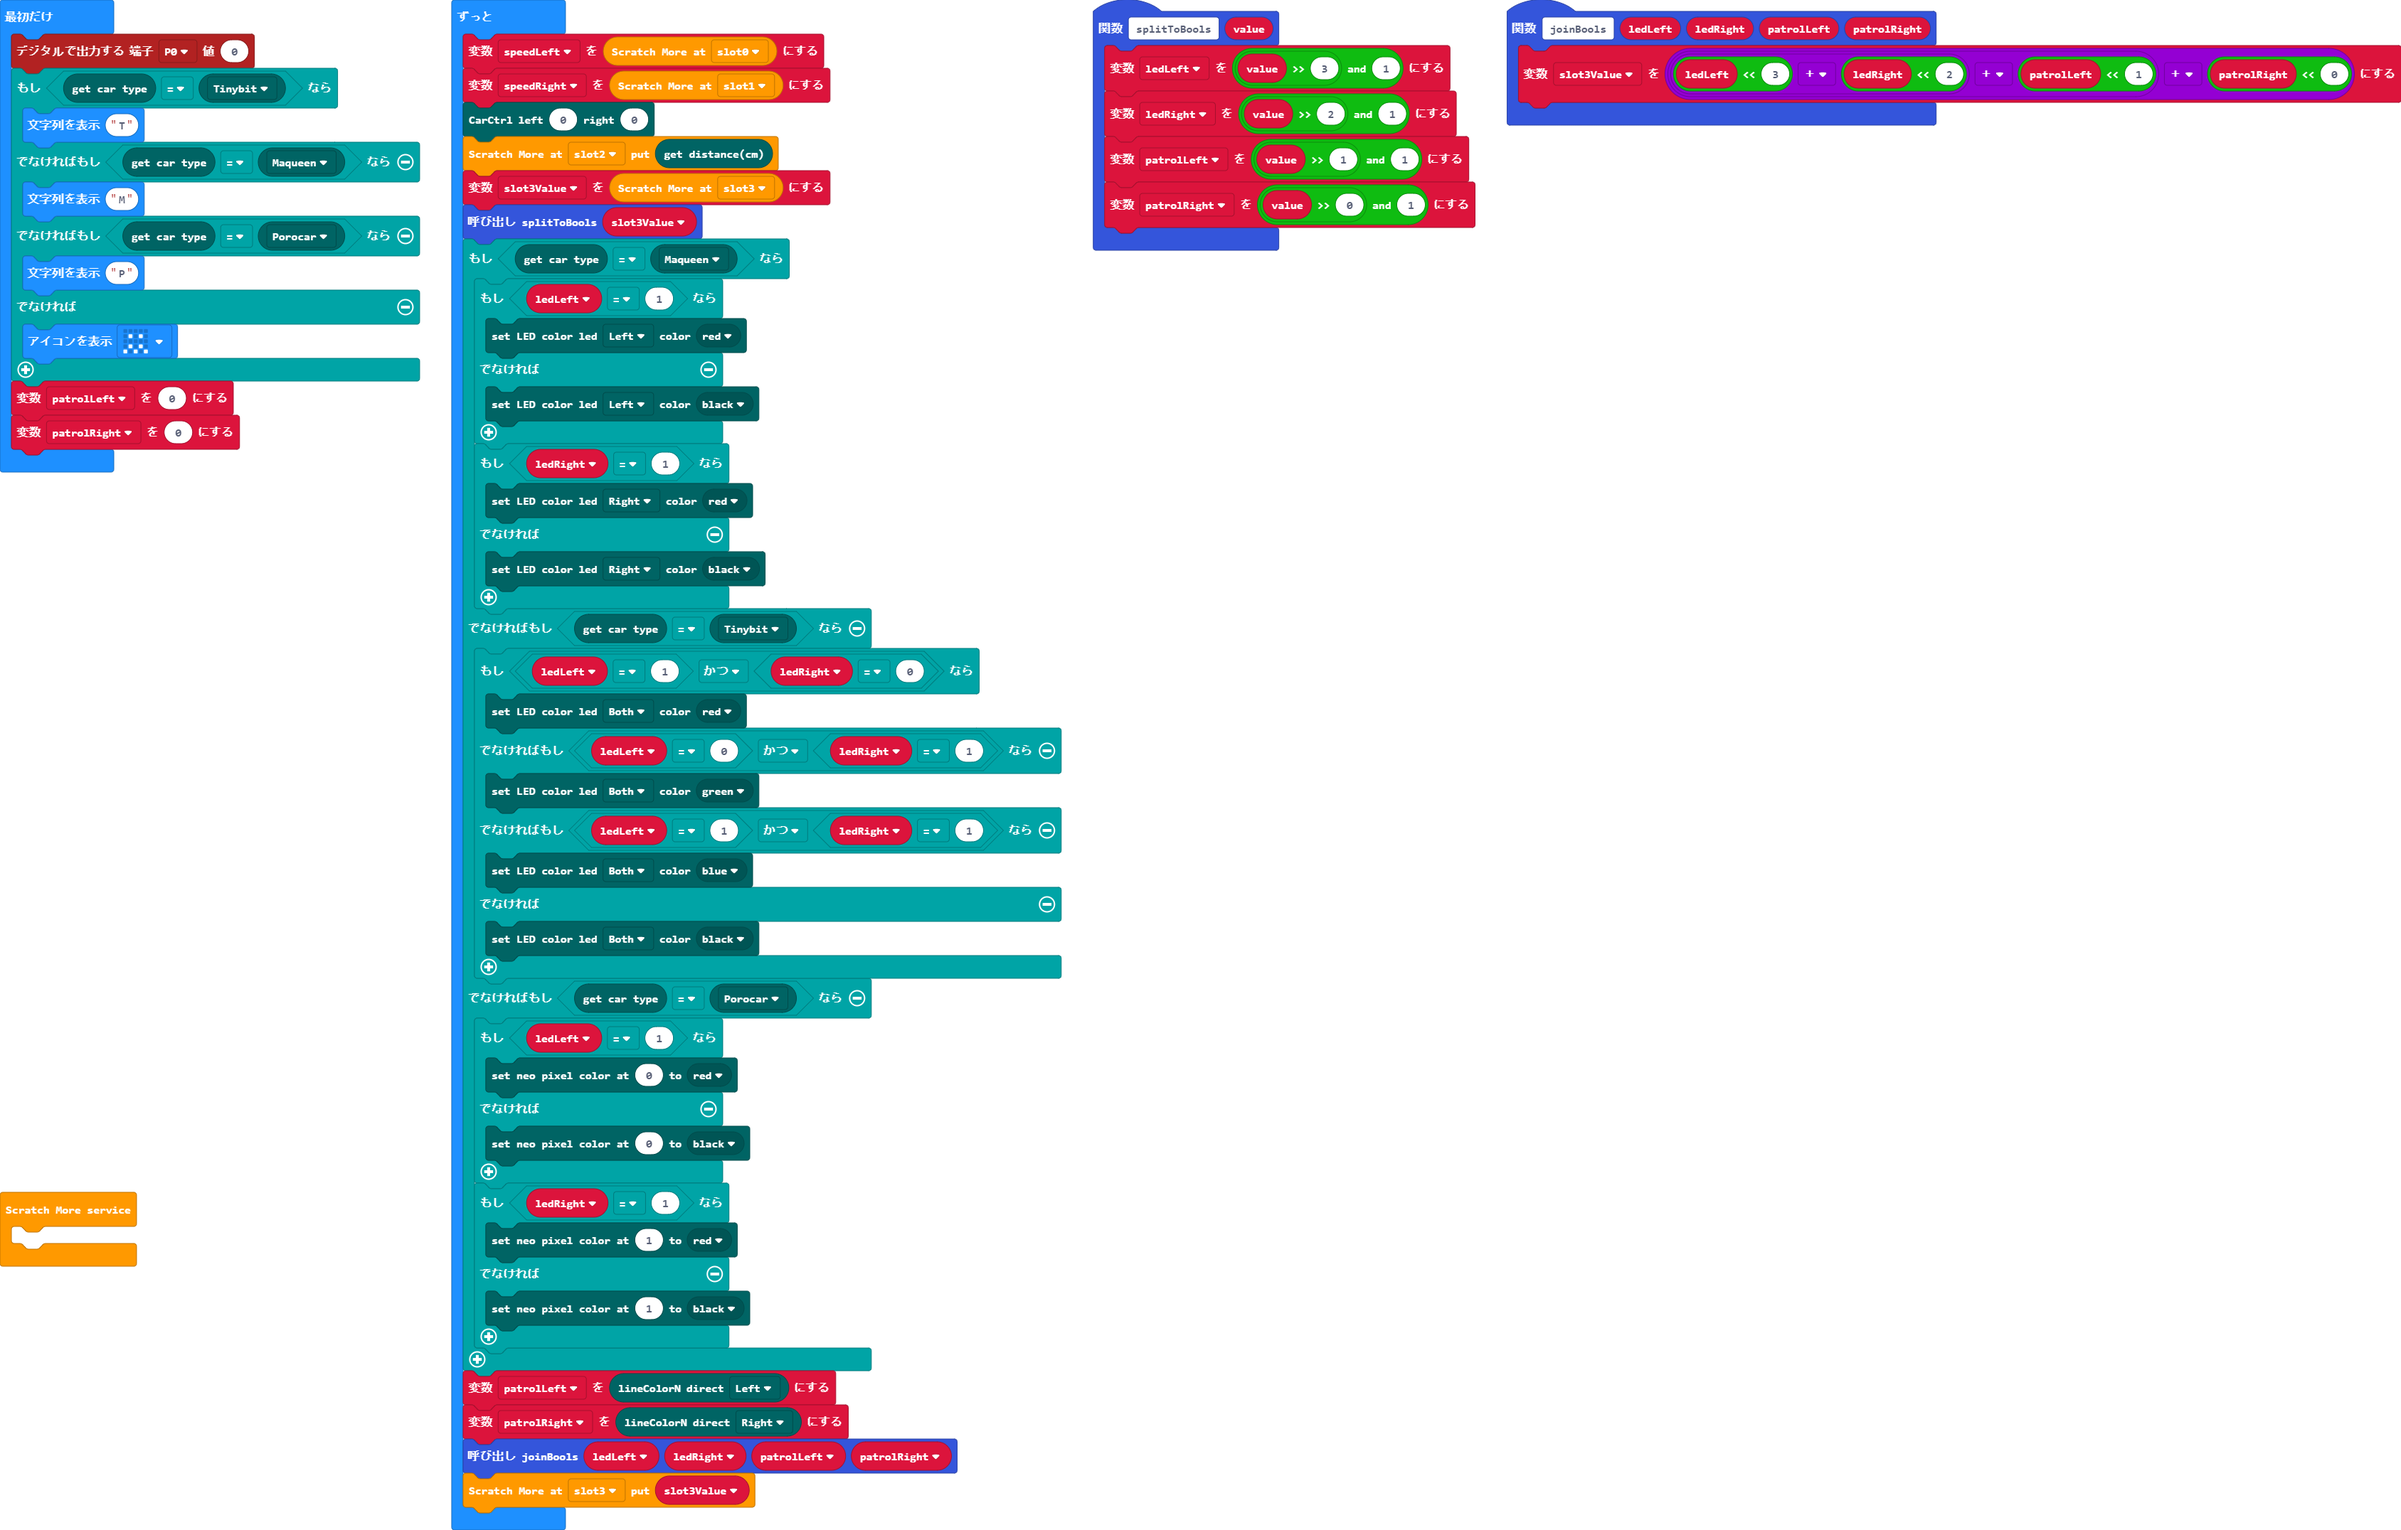
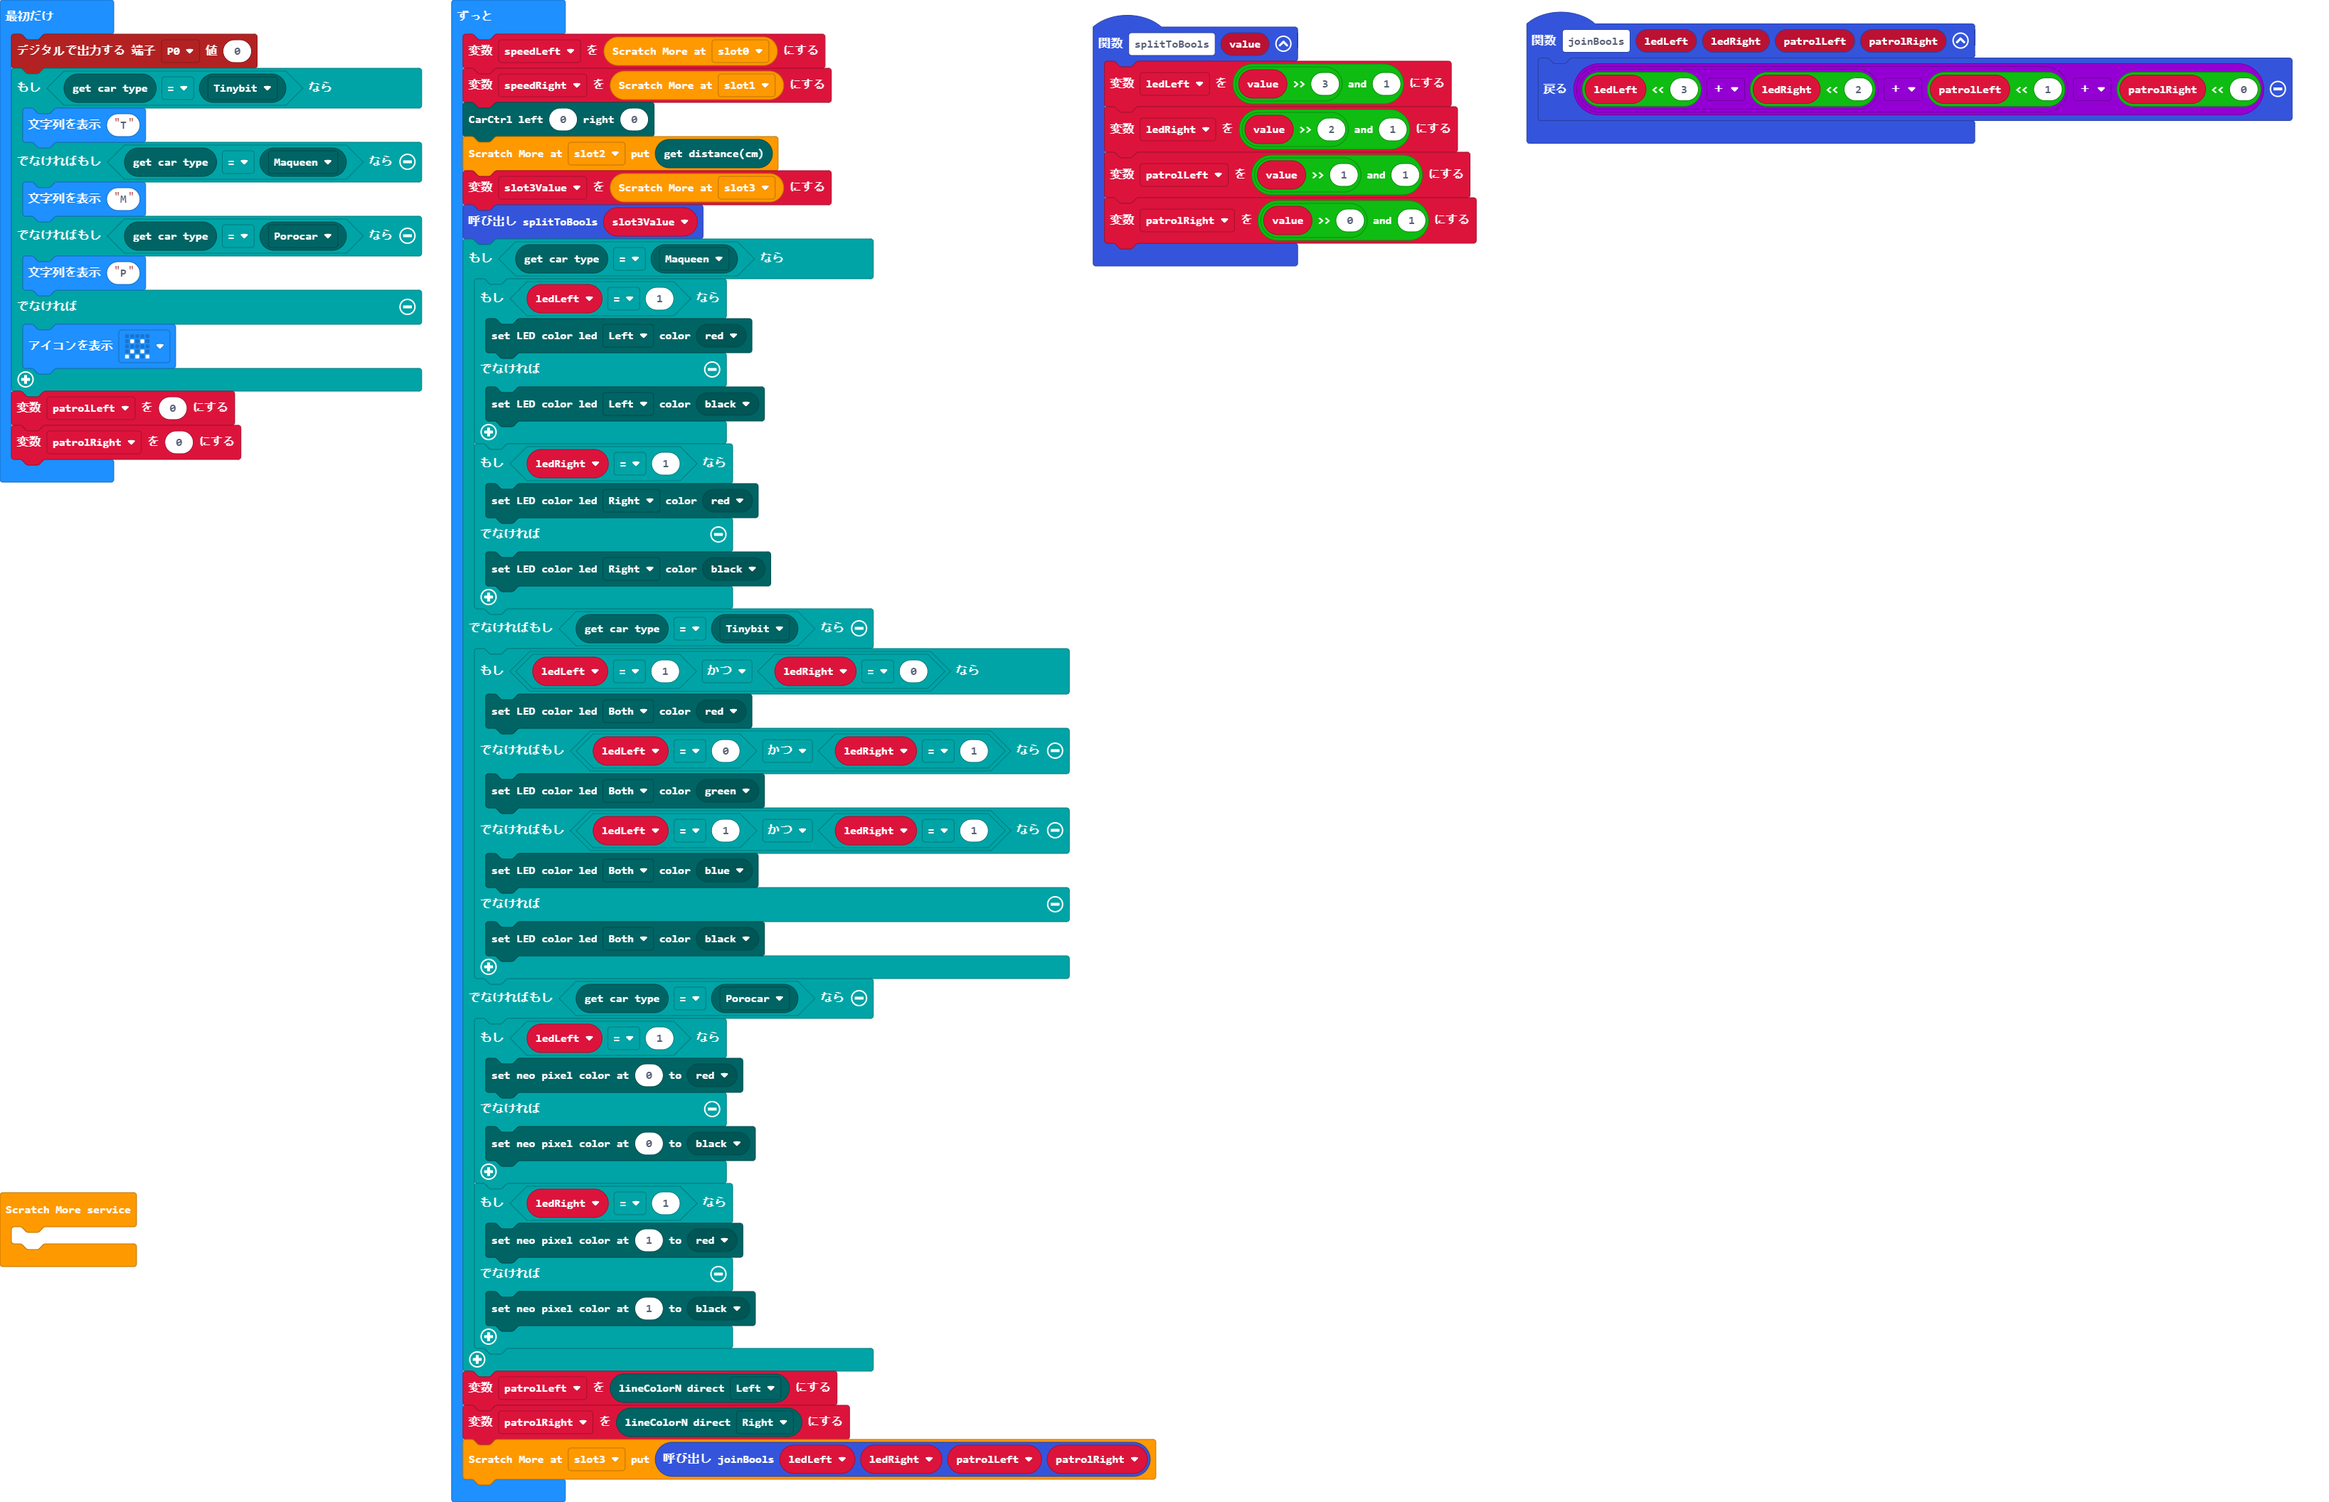
Update pxt.json, main.blocks, main.ts

Changed region(s): [[0.0, 0.0, 0.4985, 1.0], [0.4362, 0.0, 1.0, 0.1875], [0.0, 0.7812, 0.0623, 0.8438]]

diff --git a/main.ts b/main.ts
@@ -1,20 +1,20 @@
+function joinBools (ledLeft: number, ledRight: number, patrolLeft: number, patrolRight: number) {
+    return bit.lshift(ledLeft, 3) + bit.lshift(ledRight, 2) + bit.lshift(patrolLeft, 1) + bit.lshift(patrolRight, 0)
+}
 ScratchMore.startService(function () {
 	
 })
-function joinBools (ledLeft: number, ledRight: number, patrolLeft: number, patrolRight: number) {
-    slot3Value = bit.lshift(ledLeft, 3) + bit.lshift(ledRight, 2) + bit.lshift(patrolLeft, 1) + bit.lshift(patrolRight, 0)
-}
 function splitToBools (value: number) {
     ledLeft = bit.and(bit.rshift(value, 3), 1)
     ledRight = bit.and(bit.rshift(value, 2), 1)
     patrolLeft = bit.and(bit.rshift(value, 1), 1)
     patrolRight = bit.and(bit.rshift(value, 0), 1)
 }
+let slot3Value = 0
 let speedRight = 0
 let speedLeft = 0
 let ledRight = 0
 let ledLeft = 0
-let slot3Value = 0
 let patrolRight = 0
 let patrolLeft = 0
 pins.digitalWritePin(DigitalPin.P0, 0)
@@ -71,6 +71,5 @@ basic.forever(function () {
     }
     patrolLeft = carcotrol.getLineColorN(Position.Left)
     patrolRight = carcotrol.getLineColorN(Position.Right)
-    joinBools(ledLeft, ledRight, patrolLeft, patrolRight)
-    ScratchMore.setSlot(Slot.SLOT3, slot3Value)
+    ScratchMore.setSlot(Slot.SLOT3, joinBools(ledLeft, ledRight, patrolLeft, patrolRight))
 })
